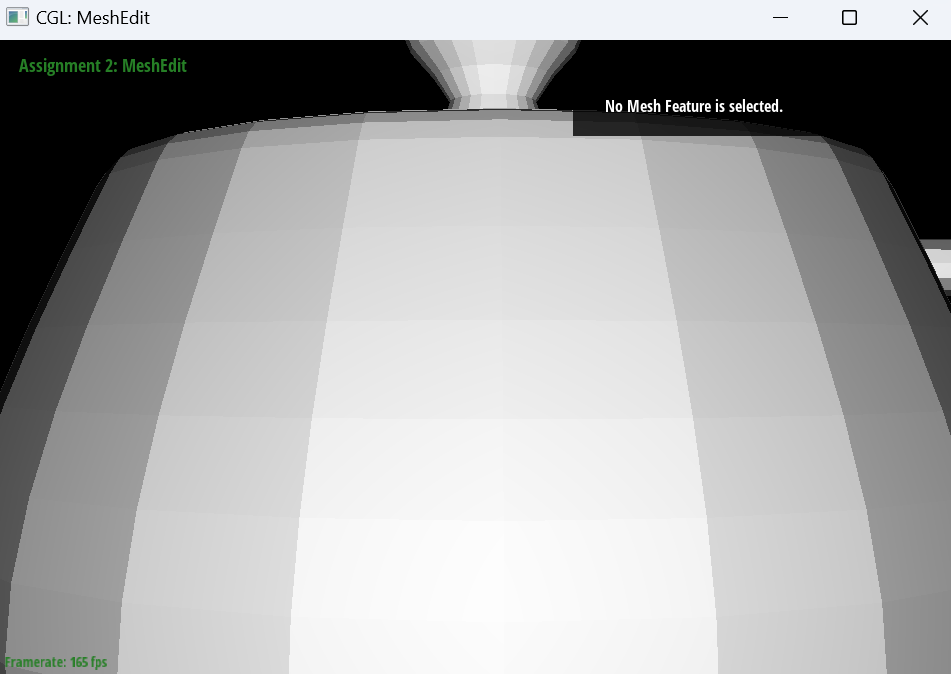
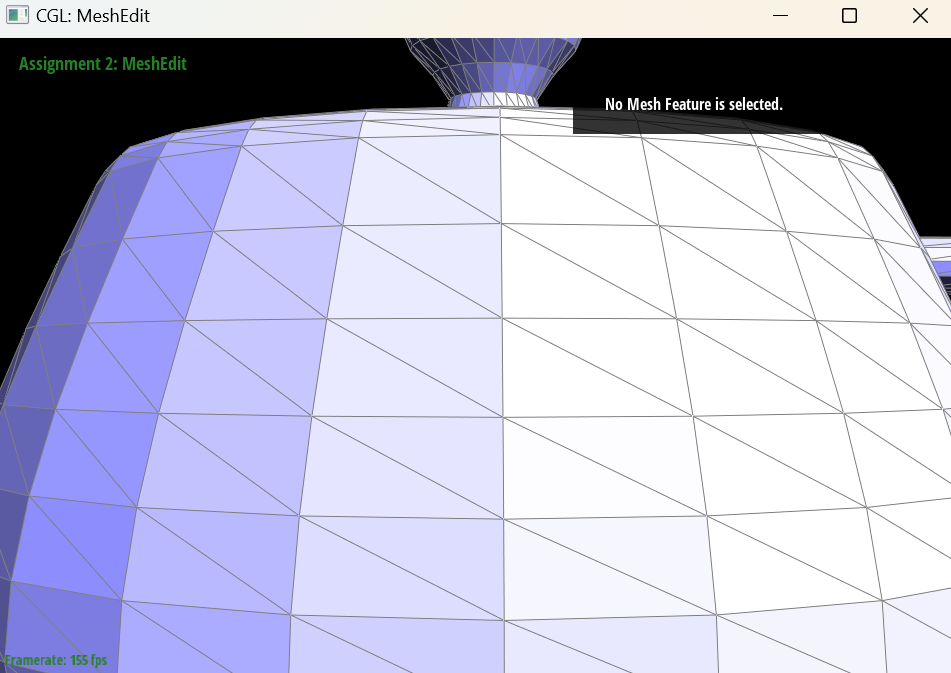
Complete write-up: Part 6, Overview, and template cleanup
- Part 6: Loop subdivision implementation, sharp-corner and pre-split
  observations, and the cube asymmetry explanation and fix, with
  screenshots.
- Part 4: replace screenshots with wireframe-style shots and update
  captions.
- Add the Overview and name; remove the template's sample image,
  unused art competition section, and "Additional Notes".

diff --git a/index.html b/index.html
@@ -28,7 +28,7 @@
 	<body>
 		<div class="container">
 		<h1>CS184/284A Fall 2026 Homework 2 Write-Up</h1>
-		<div style="text-align: center;">Names: </div>
+		<div style="text-align: center;">Name: Ziniu Zheng</div>
 
 		<br>
 
@@ -38,17 +38,20 @@
 		
 		Link to GitHub repository: <a href="https://github.com/cal-cs184-student/hw2-lol">github.com/cal-cs184-student/hw2-lol</a>
 
-		<figure>
-			<img src="assets/teapot.png" alt="Teapot" style="width:50%"/>
-			<figcaption>You can add images with captions!</figcaption>
-		</figure>
-
 		<!--
 		We've already added one heading per part, to make your write-up as navigable when grading. Please fit your write-up within these sections!
 		-->
 
 		<h2>Overview</h2>
-		Give a high-level overview of what you implemented in this homework. Think about what you've built as a whole. Share your thoughts on what interesting things you've learned from completing the homework.
+		<p>
+		In this homework I built the core tools of a small geometric modeling program, in two halves. In Section I, I implemented de Casteljau's algorithm: first for 2D Bezier curves, one level of linear interpolation at a time, and then for bicubic Bezier surfaces by applying the same 1D algorithm separably, first along the rows of the control grid and then across the results. This was enough to turn the control points of the Utah teapot into a rendered surface.
+		</p>
+		<p>
+		In Section II, I worked with triangle meshes stored in a half-edge data structure. I computed area-weighted vertex normals to get smooth Phong shading, implemented the two basic local operations, edge flip and edge split, and then combined them into Loop subdivision, which repeatedly splits every triangle into four and repositions the vertices to smooth the mesh.
+		</p>
+		<p>
+		The most interesting lesson for me was how much a mesh's connectivity, not just its geometry, determines the result. Loop subdivision on a perfectly symmetric cube produced a lopsided shape, purely because of which diagonal had been used to split each face. Re-splitting those diagonals to give every corner the same connectivity made the result symmetric again. I also learned that pointer-heavy code like the half-edge operations is far easier to get right with a disciplined process: drawing the before/after diagram, labeling every element, reassigning every pointer even when it does not change, and testing with an automated checker that verifies every half-edge invariant, rather than trusting that the mesh "looks right" in the viewer.
+		</p>
 
 		<h2>Section I: Bezier Curves and Surfaces</h2>
 
@@ -161,11 +164,11 @@
 			  <tr>
 				<td style="text-align: center;">
 				  <img src="assets/part4/teapot_before_flip.png" width="400px"/>
-				  <figcaption>Close-up of the teapot body before any flips. The original mesh is made of thin quads, each split into two triangles along a consistent diagonal, which gives the regular striped shading.</figcaption>
+				  <figcaption>Close-up of the teapot body before any flips, with mesh edges shown. The mesh is a grid of quads, each split into two triangles by a diagonal that runs the same way across the whole region.</figcaption>
 				</td>
 				<td style="text-align: center;">
 				  <img src="assets/part4/teapot_after_flip.png" width="400px"/>
-				  <figcaption>The same view after flipping the diagonals of the quads in the central column and a few in the neighboring columns. Each flipped diagonal now runs the other way, so the two triangles of each quad are lit differently and appear as wedge-shaped stripes, while the surface stays closed with no holes.</figcaption>
+				  <figcaption>The same view after a number of flips. Flipped quad diagonals now run the opposite way, creating the X- and fan-like patterns in the middle and on the right. I also flipped some horizontal and vertical edges (lower middle and left). Those two triangles belong to different quads, so the new edge crosses between them and forms long, thin triangles with darker shading. The surface stays closed with no holes.</figcaption>
 				</td>
 			  </tr>
 			</table>
@@ -210,21 +213,95 @@
 		</p>
 
 		<h3>Part 6: Loop subdivision for mesh upsampling</h3>
-		Lorem ipsum dolor sit amet, consectetur adipiscing elit, sed do eiusmod tempor incididunt ut labore et dolore magna aliqua. Ut enim ad minim veniam, quis nostrud exercitation ullamco laboris nisi ut aliquip ex ea commodo consequat. Duis aute irure dolor in reprehenderit in voluptate velit esse cillum dolore eu fugiat nulla pariatur. Excepteur sint occaecat cupidatat non proident, sunt in culpa qui officia deserunt mollit anim id est laborum.
+		<p>
+		Loop subdivision turns a coarse triangle mesh into a smoother, denser one. Each round has two parts: a topological step that splits every triangle into 4, and a geometric step that moves every vertex to a weighted average of its neighbors. Repeating it converges to a smooth limit surface.
+		</p>
+		<p>
+		I implemented <code>MeshResampler::upsample</code> in five steps, computing all new positions on the original mesh first, so that every weighted average uses the original positions:
+		</p>
+		<ol>
+			<li><b>Old vertices.</b> For each vertex, I walk around it to sum its neighbors' positions and count its degree \(n\). Its new position is \((1 - n u)\,\text{original} + u \cdot \text{neighbor sum}\), with \(u = 3/16\) if \(n = 3\) and \(u = 3/(8n)\) otherwise. I store this in <code>Vertex::newPosition</code> and mark the vertex as old (<code>isNew = false</code>).</li>
+			<li><b>New (edge) vertices.</b> For each edge \(AB\) with opposite vertices \(C\) and \(D\), the vertex that will be inserted there gets the position \(\frac{3}{8}(A + B) + \frac{1}{8}(C + D)\), which I store in <code>Edge::newPosition</code>.</li>
+			<li><b>Split every original edge.</b> Splitting appends new edges to the end of the mesh's edge list, so I record the number of edges beforehand and split exactly that many, saving the next iterator before each split. I copy the edge's stored position into the new vertex's <code>newPosition</code>. My <code>splitEdge</code> already sets the flags: the new vertex is new, the two halves of the split edge are old, and the two edges cutting across the old triangles are new.</li>
+			<li><b>Flip.</b> I flip every new edge that connects an old vertex to a new vertex. This turns the 4 triangles around each original triangle into the standard 1-to-4 pattern, with the middle triangle formed by the three new vertices.</li>
+			<li><b>Update.</b> Finally, I copy <code>newPosition</code> into <code>position</code> for every vertex.</li>
+		</ol>
+		<p>
+		<b>Debugging.</b> To check correctness, I wrote a separate reference version of Loop subdivision that works directly on the list of triangles, without the half-edge structure. On a tetrahedron (degree 3, which exercises \(u = 3/16\)), an octahedron (degree 4), an icosahedron (degree 5 and then 6) and an irregular triangulated cube, I subdivided 2 to 3 times and checked that every vertex position, every triangle and every triangle's orientation matched the reference exactly, and that the half-edge structure stayed valid after each round.
+		</p>
 
-		<h2>(Optional) Section III: Potential Extra Credit - Art Competition: Model something Creative</h2>
-		Lorem ipsum dolor sit amet, consectetur adipiscing elit, sed do eiusmod tempor incididunt ut labore et dolore magna aliqua. Ut enim ad minim veniam, quis nostrud exercitation ullamco laboris nisi ut aliquip ex ea commodo consequat. Duis aute irure dolor in reprehenderit in voluptate velit esse cillum dolore eu fugiat nulla pariatur. Excepteur sint occaecat cupidatat non proident, sunt in culpa qui officia deserunt mollit anim id est laborum.
+		<h4>Sharp corners and edges</h4>
+		<p>
+		Loop subdivision smooths everything: every vertex moves toward a weighted average of its neighbors, so sharp corners and edges get rounded off, and the whole shape shrinks. The cube below loses its corners after one round, and after three rounds it looks like a lumpy ball, noticeably smaller than the original cube.
+		</p>
+		<div style="display: flex; flex-direction: column; align-items: center;">
+			<table style="width: 100%; text-align: center; border-collapse: collapse;">
+			  <tr>
+				<td style="text-align: center;">
+				  <img src="assets/part6/cube_0.png" width="400px"/>
+				  <figcaption><code>dae/cube.dae</code>, original</figcaption>
+				</td>
+				<td style="text-align: center;">
+				  <img src="assets/part6/cube_1.png" width="400px"/>
+				  <figcaption>After 1 round of subdivision</figcaption>
+				</td>
+			  </tr>
+			  <tr>
+				<td style="text-align: center;">
+				  <img src="assets/part6/cube_2.png" width="400px"/>
+				  <figcaption>After 2 rounds</figcaption>
+				</td>
+				<td style="text-align: center;">
+				  <img src="assets/part6/cube_3.png" width="400px"/>
+				  <figcaption>After 3 rounds: rounded, shrunk, and visibly asymmetric</figcaption>
+				</td>
+			  </tr>
+			</table>
+		</div>
+		<h4>Does pre-splitting edges help?</h4>
+		<p>
+		To test whether adding vertices near a feature keeps it sharper, I took a fresh cube and split each of the 3 cube edges meeting at the front corner three times, each time splitting the half closest to that corner, so the new vertices crowd toward the corner. Because each split also connects the new vertex to the two vertices opposite the edge, this creates fans of long, thin triangles converging on the top and right corners, which now have very high degree.
+		</p>
+		<p>
+		After two rounds of subdivision, the region where the vertices were concentrated does not round off like the rest: the small triangles there converge into a pinched, creased point instead of a smooth curve. That is the local effect we wanted. Since each vertex is averaged only with its nearby neighbors, packing vertices close to a feature limits how far the smoothing can spread. However, the overall result is much worse than plain subdivision. The long sliver triangles and the high-degree fan vertices pull the surface unevenly, producing dents and folds across the whole shape. So pre-splitting does reduce rounding near the feature, but only helps cleanly if the added vertices keep the triangles well shaped (for example, by also splitting the neighboring edges, or flipping to avoid slivers). Splitting a few edges on their own trades one artifact for another.
+		</p>
+		<div style="display: flex; flex-direction: column; align-items: center;">
+			<table style="width: 100%; text-align: center; border-collapse: collapse;">
+			  <tr>
+				<td style="text-align: center;">
+				  <img src="assets/part6/presplit_0.png" width="400px"/>
+				  <figcaption>The 3 cube edges at the front corner, each split three times toward that corner</figcaption>
+				</td>
+				<td style="text-align: center;">
+				  <img src="assets/part6/presplit_2.png" width="400px"/>
+				  <figcaption>After 2 rounds: a pinched, sharper feature where vertices were concentrated, but strong dents and folds caused by the thin, uneven triangles</figcaption>
+				</td>
+			  </tr>
+			</table>
+		</div>
 
-		<h2>Additional Notes (please remove)</h2>
-		<ul>
-			<li>You can also add code if you'd like as so: <code>code code code</code></li>
-			<li>If you'd like to add math equations, 
-				<ul>
-					<li>You can write inline equations like so: \( a^2 + b^2 = c^2 \)</li>
-					<li>You can write display equations like so: \[ a^2 + b^2 = c^2 \]</li>
-				</ul>
-			</li>
-		</ul>
+		<h4>Why the cube becomes asymmetric, and how to fix it</h4>
+		<p>
+		The cube is geometrically symmetric, but its triangulation is not. Each square face is cut into two triangles by a single diagonal, and the diagonals do not follow a symmetric pattern, so different corners touch different numbers of edges. Counting the edges at each of the 8 corners of <code>cube.dae</code> gives degrees 3, 4, 4, 4, 5, 5, 5 and 6. Loop subdivision's weights depend on a vertex's degree and on which vertices are its neighbors. Corners with more neighbors are pulled toward more points, and each diagonal pulls the surface toward the two corners it connects. So the same rule moves the 8 corners differently, and the subdivided shape inherits the asymmetry of the triangulation rather than the symmetry of the cube. This is what produces the lopsided, pointed blob after 3 rounds.
+		</p>
+		<p>
+		To fix it, I preprocessed the cube by splitting the diagonal of each of the 6 faces once. Each face then becomes 4 triangles that meet at a new vertex at the face's center. Now every face has the same connectivity: each corner has degree 6 (3 cube edges plus 3 edges to the centers of its faces), and each face center has degree 4. Because the mesh connectivity now has the cube's symmetry, Loop subdivision treats all corners and all faces the same way, and the result after 3 rounds is a symmetric, rounded shape.
+		</p>
+		<div style="display: flex; flex-direction: column; align-items: center;">
+			<table style="width: 100%; text-align: center; border-collapse: collapse;">
+			  <tr>
+				<td style="text-align: center;">
+				  <img src="assets/part6/sym_0.png" width="400px"/>
+				  <figcaption>Preprocessed cube: every face's diagonal is split, so each face is 4 triangles around its center</figcaption>
+				</td>
+				<td style="text-align: center;">
+				  <img src="assets/part6/sym_3.png" width="400px"/>
+				  <figcaption>The preprocessed cube after 3 rounds: symmetric (compare with the asymmetric result above)</figcaption>
+				</td>
+			  </tr>
+			</table>
+		</div>
+
 		</div>
 	</body>
 </html>
